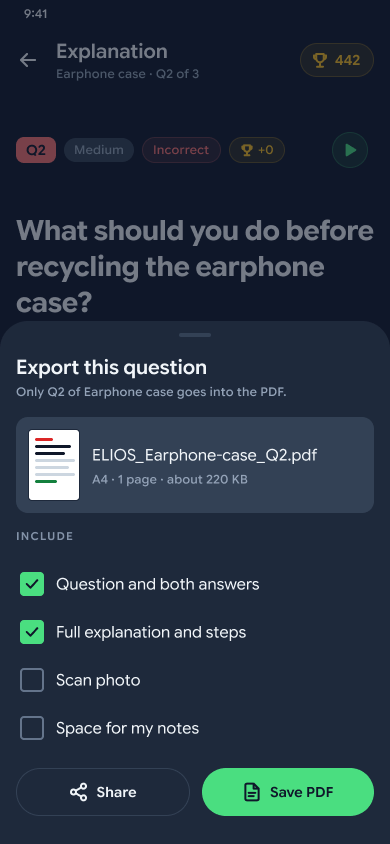
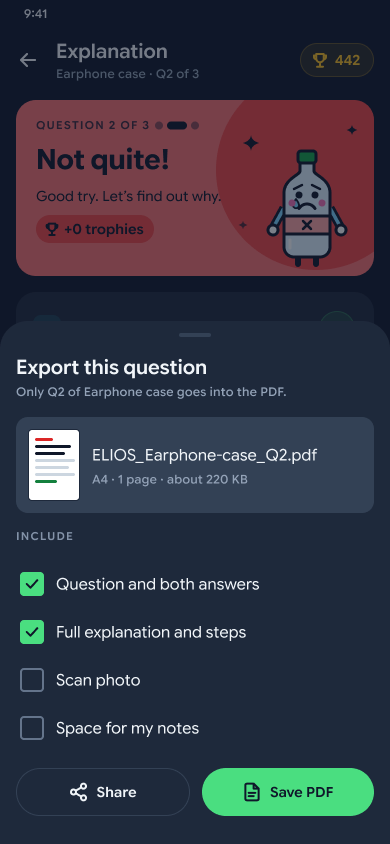
docs(design): gamified H3 explanation (result hero, answer tiles, learn cards, mission)
Claude-Session: https://claude.ai/code/session_01E7CoGBaVaXvV2kEKkvcAQW

Changed region(s): [[0.0308, 0.0924, 0.9846, 0.3697]]

diff --git a/docs/design/h3-figma/README.md b/docs/design/h3-figma/README.md
@@ -1,7 +1,8 @@
 # H3 History: Figma reference (source of truth for the UI)
 
 Figma file `J2jSbARJSyJCStNFeWkWDj`, page "H3 History screen" (`433:2358`), exported 5 Nov 2026 at 1x (list and detail redesigned 14:00: trophy hero, category tiles,
-result stats, difficulty tabs)
+result stats, difficulty tabs; explanation redesigned 14:40: result hero, answer tiles, learn cards,
+mission path)
 (390 px wide = 390 dp). Phone screenshots taken at the same dp width must match these images.
 Figma copy is English; the app shows the Indonesian strings from decision 0184.
 
@@ -12,10 +13,10 @@ Figma copy is English; the app shows the Indonesian strings from decision 0184.
 | 03 Loading list | 435:2781 / 454:4525 |
 | 04 Loading detail | 435:2936 / 454:4576 |
 | 05 Empty | 435:3060 / 436:3649 |
-| 06 Explanation | 439:3603 / 439:4238 |
-| 07 Explanation, reading aloud | 439:3764 / 439:4323 |
-| 08 Export this question sheet | 439:3944 / 439:4408 |
-| 09 Explanation loading | 439:4165 / 439:4536 |
+| 06 Explanation | 439:3603 / 459:5288 |
+| 07 Explanation, reading aloud | 439:3764 / 459:5355 |
+| 08 Export this question sheet | 459:5039 / 459:5422 |
+| 09 Explanation loading | 439:4165 / 459:5529 |
 
 ## Type (font: Google Sans Flex; code: Google Sans Code)
 
@@ -91,19 +92,40 @@ Figma copy is English; the app shows the Indonesian strings from decision 0184.
   Link row gap 8: book icon 18 + "Lihat penjelasan" Button `primary/text`.
 - **Explanation top bar** 64 high, pad 4/16/4/4: back 48 dp, title column (Subhead + Caption `text/secondary`), trophy pill.
 - **Trophy pill** pad 6/12/6/10, gap 6, r full, `chip/warning-bg` + `chip/warning-border`, trophy 18 + count Button `warning/text`.
-- **Explanation screen content** (gap 16):
-  meta row = Q badge, difficulty chip (neutral), result chip, +trophy chip, spacer, listen button;
-  question Headline `text/primary`;
-  answers gap 8: "Jawabanmu" pad 12 r12 `chip/error-bg` + `chip/error-border` (label Overline `error/text`, text Body `text/primary`),
-  "Jawaban benar" same with success tint and a check 14 before the label;
-  "Penjelasan" section header (no action);
-  sections column gap 4; each section pad 12, gap 8, r12, no fill; title row gap 8 = title Subhead (fills) + listen button;
-  body Body `text/primary`. Reading state: `chip/success-bg` + `chip/success-border`, a "SEDANG DIBACAKAN" row
-  (volume 14 + Overline `primary/text`) above the title, listen button in Pause state.
-  Key idea card: pad 16/16/16/12, gap 12, r16, `chip/info-bg` + `chip/info-border`, bin buddy art 64x76 left,
-  text column gap 4 (Overline "IDE UTAMA" `info/text`, Body Small `text/primary`). No listen button on this card.
-  Steps block pad 0/12, gap 12: title Subhead, rows gap 12 = number circle 28 `raised` (Button) + Body.
-  No physics link, no module/guide/simulation link, no source citation.
+- **Explanation screen content** (gamified; content gap 16; no meta chip row, no tinted answer boxes):
+  1. **Result hero** 358x176, r20, clipped, pad 18/20/20/20, gap 8. Wrong = `error/fill` with text/icons
+     `error/on-fill` and a 200 circle `error/fill-hover` behind the top-right; Right = `primary/fill`,
+     `primary/on-fill`, `primary/fill-hover`. Rows: "SOAL 2 DARI 3" Overline (80 % layer opacity) + progress
+     dots (8x8, current 20x8, r full, others 45 % layer opacity, one per question); headline Headline
+     ("Belum tepat!" / "Mantap!"); subtitle Body Small 200 wide ("Coba lagi, yuk cari tahu alasannya." /
+     "Jawabanmu benar."); trophy pill (pad 4/10/4/8, r full, `*-fill-hover`, trophy 16 + "+n trofi" Button).
+     Mascot "Control art/Bottle buddy" Mood=Sad (wrong) / Mood=Happy (right), 90x122 at x 246 y 46, partly
+     cut by the bottom edge; three sparkle stars (18, 12, 10) in the on-fill colour around it.
+     Same colours in dark mode (dark `error/fill` is the lighter red, text stays `error/on-fill`).
+  2. **Question card** 358 wide, r20, pad 12/12/16/16, gap 8, `surface` + `border/subtle`. Top row gap 8:
+     28 r8 tile `chip/info-bg` with quiz icon 18 `info/text`, "PERTANYAAN" Overline `text/tertiary` (fills),
+     listen button. Question Subhead `text/primary`.
+  3. **Answer tiles** (gap 8), r16, pad 12/16/12/12, gap 12, 2 px border:
+     "Jawabanmu" wrong = `chip/error-bg` + `error/fill` border, 32 badge `error/fill` with X 18 `error/on-fill`,
+     tag Overline `error/text`; "Jawaban benar" = `chip/success-bg` + `primary/fill` border, badge `primary/fill`
+     with check `primary/on-fill`, tag `primary/text`; when the student was right show one tile
+     "JAWABANMU · BENAR" in the success style. Answer Body `text/primary`.
+  4. Header row gap 8: sparkle 18 `warning/text` + "Yuk pelajari alasannya" Subhead.
+  5. **Learn cards** (gap 12), r20, pad 16/12/16/16, gap 12, `surface` + `border/subtle`. Header row gap 12:
+     art tile 52 r16 (tint + painted art 36-40), title Subhead (fills, wraps), listen button. Body Body.
+     "Kenapa ini benar": Bulb buddy art on `chip/warning-bg`. "Kenapa jawabanmu kurang tepat" (only when wrong):
+     Bin buddy art of the item's category on `chip/error-bg` (B3 here).
+     Reading state: `chip/success-bg`, 2 px `primary/fill` border, a "SEDANG DIBACAKAN" pill above the header
+     (pad 4/10/4/8, r full, `primary/fill`, volume 14 + Overline `primary/on-fill`), listen button = Pause.
+  6. **Key idea** card r20, pad 16, gap 12, `chip/info-bg` + `chip/info-border`: 52 r16 `surface` tile with
+     Quest target art 40; text gap 4 = sparkle 12 + "IDE UTAMA" Overline `info/text`, Body `text/primary`.
+     No listen button.
+  7. **Mission** card r20, pad 16, gap 16, `surface` + `border/subtle`. Header gap 12: 52 r16 `chip/warning-bg`
+     tile with flag 26 `warning/text`, title "Misimu" Subhead + Caption "n langkah agar benar", listen button.
+     Steps path: each row gap 12 = rail (28 `primary/fill` circle with the number Button `primary/on-fill`,
+     a 2 px `primary/fill` line below that stretches to the next step) + text Body (pad top 3, bottom 16).
+     Finish row: Medal gold art 28x33 + "Misi selesai: ..." Body Small `text/secondary`.
+     The mission rows are the AI "steps"; hide the card when there are none.
 - **Listen button** 48 dp tap target, visual 36 circle. Play = `chip/success-bg` + `chip/success-border`, play icon 16 `primary/text`.
   Pause = `primary/fill`, pause icon 16 `primary/on-fill`.
 - **Explanation actions** pad 12/16/28/16, gap 12, `surface`, top border 1 `border/subtle`.
@@ -114,6 +136,7 @@ Figma copy is English; the app shows the Indonesian strings from decision 0184.
   "SERTAKAN" Overline `text/tertiary`; option rows 48 high (checkbox 24 r4 + Body); buttons row like the actions bar
   ("Bagikan" outline with share icon, "Simpan PDF" primary with file icon).
 - **Skeleton block**: `border/medium` (full opacity) with a white shimmer band (peak 16 % alpha), radii as the real element.
-  Skeleton layouts mirror the real cards (see 03, 04, 09): hero block r20 164 high, 2x2 tile blocks 96 high,
+  Skeleton layouts mirror the real cards (see 03, 04, 09): explanation = hero block 176 r20, question card,
+  two 64 r16 answer blocks, a learn card skeleton; list hero block r20 164 high, 2x2 tile blocks 96 high,
   stats block 80 high r16, tabs block 48 high r full.
 - **Empty**: illustration 240x180, title Subhead, body Body Small `text/secondary` 280 wide centred, primary pill button.
